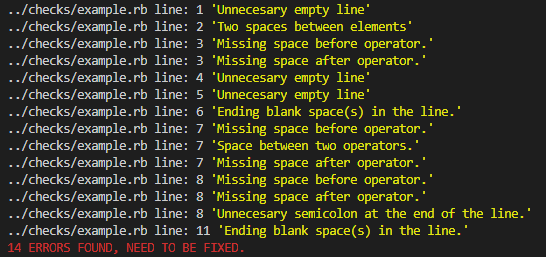
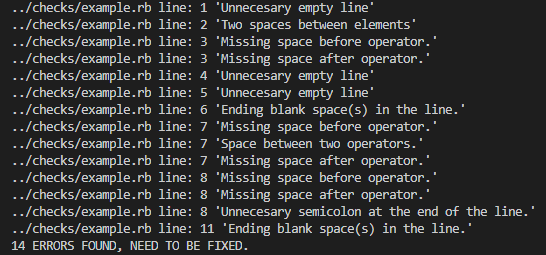
updated readme and deleted colorize methods

diff --git a/lib/linter.rb b/lib/linter.rb
@@ -1,50 +1,50 @@
 $errors = 0
 
 def error
-  "#{$errors} ERRORS FOUND, NEED TO BE FIXED.".red
+  "#{$errors} ERRORS FOUND, NEED TO BE FIXED."
 end
 
 class Linter
   def self.two_spaces(file, line, index)
     return unless line.match(/\S\s{2,}\S/)
 
-    puts "#{file} line: #{index + 1}" + " 'Two spaces between elements'".yellow
+    puts "#{file} line: #{index + 1}" + " 'Two spaces between elements'"
     $errors += 1
   end
 
   def self.ending_spaces(file, line, index)
     return unless line.match(/\s{2,}$/)
 
-    puts "#{file} line: #{index + 1}" + " 'Ending blank space(s) in the line.'".yellow
+    puts "#{file} line: #{index + 1}" + " 'Ending blank space(s) in the line.'"
     $errors += 1
   end
 
   def self.empty_line(file, line, index)
     return unless line.strip == ''
 
-    puts "#{file} line: #{index + 1}" + " 'Unnecesary empty line'".yellow
+    puts "#{file} line: #{index + 1}" + " 'Unnecesary empty line'"
     $errors += 1
   end
 
   def self.between_ope1(file, line, index)
     case line
     when /= =/
-      puts "#{file} line: #{index + 1}" + " 'Space between two operators.'".yellow
+      puts "#{file} line: #{index + 1}" + " 'Space between two operators.'"
       $errors += 1
     when /- =/
-      puts "#{file} line: #{index + 1}" + " 'Space between two operators.'".yellow
+      puts "#{file} line: #{index + 1}" + " 'Space between two operators.'"
       $errors += 1
     when /\+ =/
-      puts "#{file} line: #{index + 1}" + " 'Space between two operators.'".yellow
+      puts "#{file} line: #{index + 1}" + " 'Space between two operators.'"
       $errors += 1
     when /\* \*/
-      puts "#{file} line: #{index + 1}" + " 'Space between two operators.'".yellow
+      puts "#{file} line: #{index + 1}" + " 'Space between two operators.'"
       $errors += 1
     when /\* =/
-      puts "#{file} line: #{index + 1}" + " 'Space between two operators.'".yellow
+      puts "#{file} line: #{index + 1}" + " 'Space between two operators.'"
       $errors += 1
     when %r{/ =}
-      puts "#{file} line: #{index + 1}" + " 'Space between two operators.'".yellow
+      puts "#{file} line: #{index + 1}" + " 'Space between two operators.'"
       $errors += 1
     end
   end
@@ -52,19 +52,19 @@ class Linter
   def self.between_ope2(file, line, index)
     case line
     when /% =/
-      puts "#{file} line: #{index + 1}" + " 'Space between two operators.'".yellow
+      puts "#{file} line: #{index + 1}" + " 'Space between two operators.'"
       $errors += 1
     when /! =/
-      puts "#{file} line: #{index + 1}" + " 'Space between two operators.'".yellow
+      puts "#{file} line: #{index + 1}" + " 'Space between two operators.'"
       $errors += 1
     when /> =/
-      puts "#{file} line: #{index + 1}" + " 'Space between two operators.'".yellow
+      puts "#{file} line: #{index + 1}" + " 'Space between two operators.'"
       $errors += 1
     when /< =/
-      puts "#{file} line: #{index + 1}" + " 'Space between two operators.'".yellow
+      puts "#{file} line: #{index + 1}" + " 'Space between two operators.'"
       $errors += 1
     when /\*\* =/
-      puts "#{file} line: #{index + 1}" + " 'Space between two operators.'".yellow
+      puts "#{file} line: #{index + 1}" + " 'Space between two operators.'"
       $errors += 1
     end
   end
@@ -72,10 +72,10 @@ class Linter
   def self.after_ope(file, line, index)
     case line
     when /=./
-      puts "#{file} line: #{index + 1}" + " 'Missing space after operator.'".yellow
+      puts "#{file} line: #{index + 1}" + " 'Missing space after operator.'"
       $errors += 1
     when /\*./
-      puts "#{file} line: #{index + 1}" + " 'Missing space after operator.'".yellow
+      puts "#{file} line: #{index + 1}" + " 'Missing space after operator.'"
       $errors += 1
     end
   end
@@ -83,19 +83,19 @@ class Linter
   def self.before_ope1(file, line, index)
     case line
     when /.=/
-      puts "#{file} line: #{index + 1}" + " 'Missing space before operator.'".yellow
+      puts "#{file} line: #{index + 1}" + " 'Missing space before operator.'"
       $errors += 1
     when /.\*/
-      puts "#{file} line: #{index + 1}" + " 'Missing space before operator.'".yellow
+      puts "#{file} line: #{index + 1}" + " 'Missing space before operator.'"
       $errors += 1
     when /.-/
-      puts "#{file} line: #{index + 1}" + " 'Missing space before operator.'".yellow
+      puts "#{file} line: #{index + 1}" + " 'Missing space before operator.'"
       $errors += 1
     when /.\+/
-      puts "#{file} line: #{index + 1}" + " 'Missing space before operator.'".yellow
+      puts "#{file} line: #{index + 1}" + " 'Missing space before operator.'"
       $errors += 1
     when %r{./}
-      puts "#{file} line: #{index + 1}" + " 'Missing space before operator.'".yellow
+      puts "#{file} line: #{index + 1}" + " 'Missing space before operator.'"
       $errors += 1
     end
   end
@@ -103,16 +103,16 @@ class Linter
   def self.before_ope2(file, line, index)
     case line
     when /.%/
-      puts "#{file} line: #{index + 1}" + " 'Missing space before operator.'".yellow
+      puts "#{file} line: #{index + 1}" + " 'Missing space before operator.'"
       $errors += 1
     when /.!/
-      puts "#{file} line: #{index + 1}" + " 'Missing space before operator.'".yellow
+      puts "#{file} line: #{index + 1}" + " 'Missing space before operator.'"
       $errors += 1
     when /.</
-      puts "#{file} line: #{index + 1}" + " 'Missing space before operator.'".yellow
+      puts "#{file} line: #{index + 1}" + " 'Missing space before operator.'"
       $errors += 1
     when /.>/
-      puts "#{file} line: #{index + 1}" + " 'Missing space before operator.'".yellow
+      puts "#{file} line: #{index + 1}" + " 'Missing space before operator.'"
       $errors += 1
     end
   end
@@ -120,7 +120,7 @@ class Linter
   def self.ending_semicolon(file, line, index)
     case line
     when /;$/
-      puts "#{file} line: #{index + 1}" + " 'Unnecesary semicolon at the end of the line.'".yellow
+      puts "#{file} line: #{index + 1}" + " 'Unnecesary semicolon at the end of the line.'"
       $errors += 1
     end
   end
